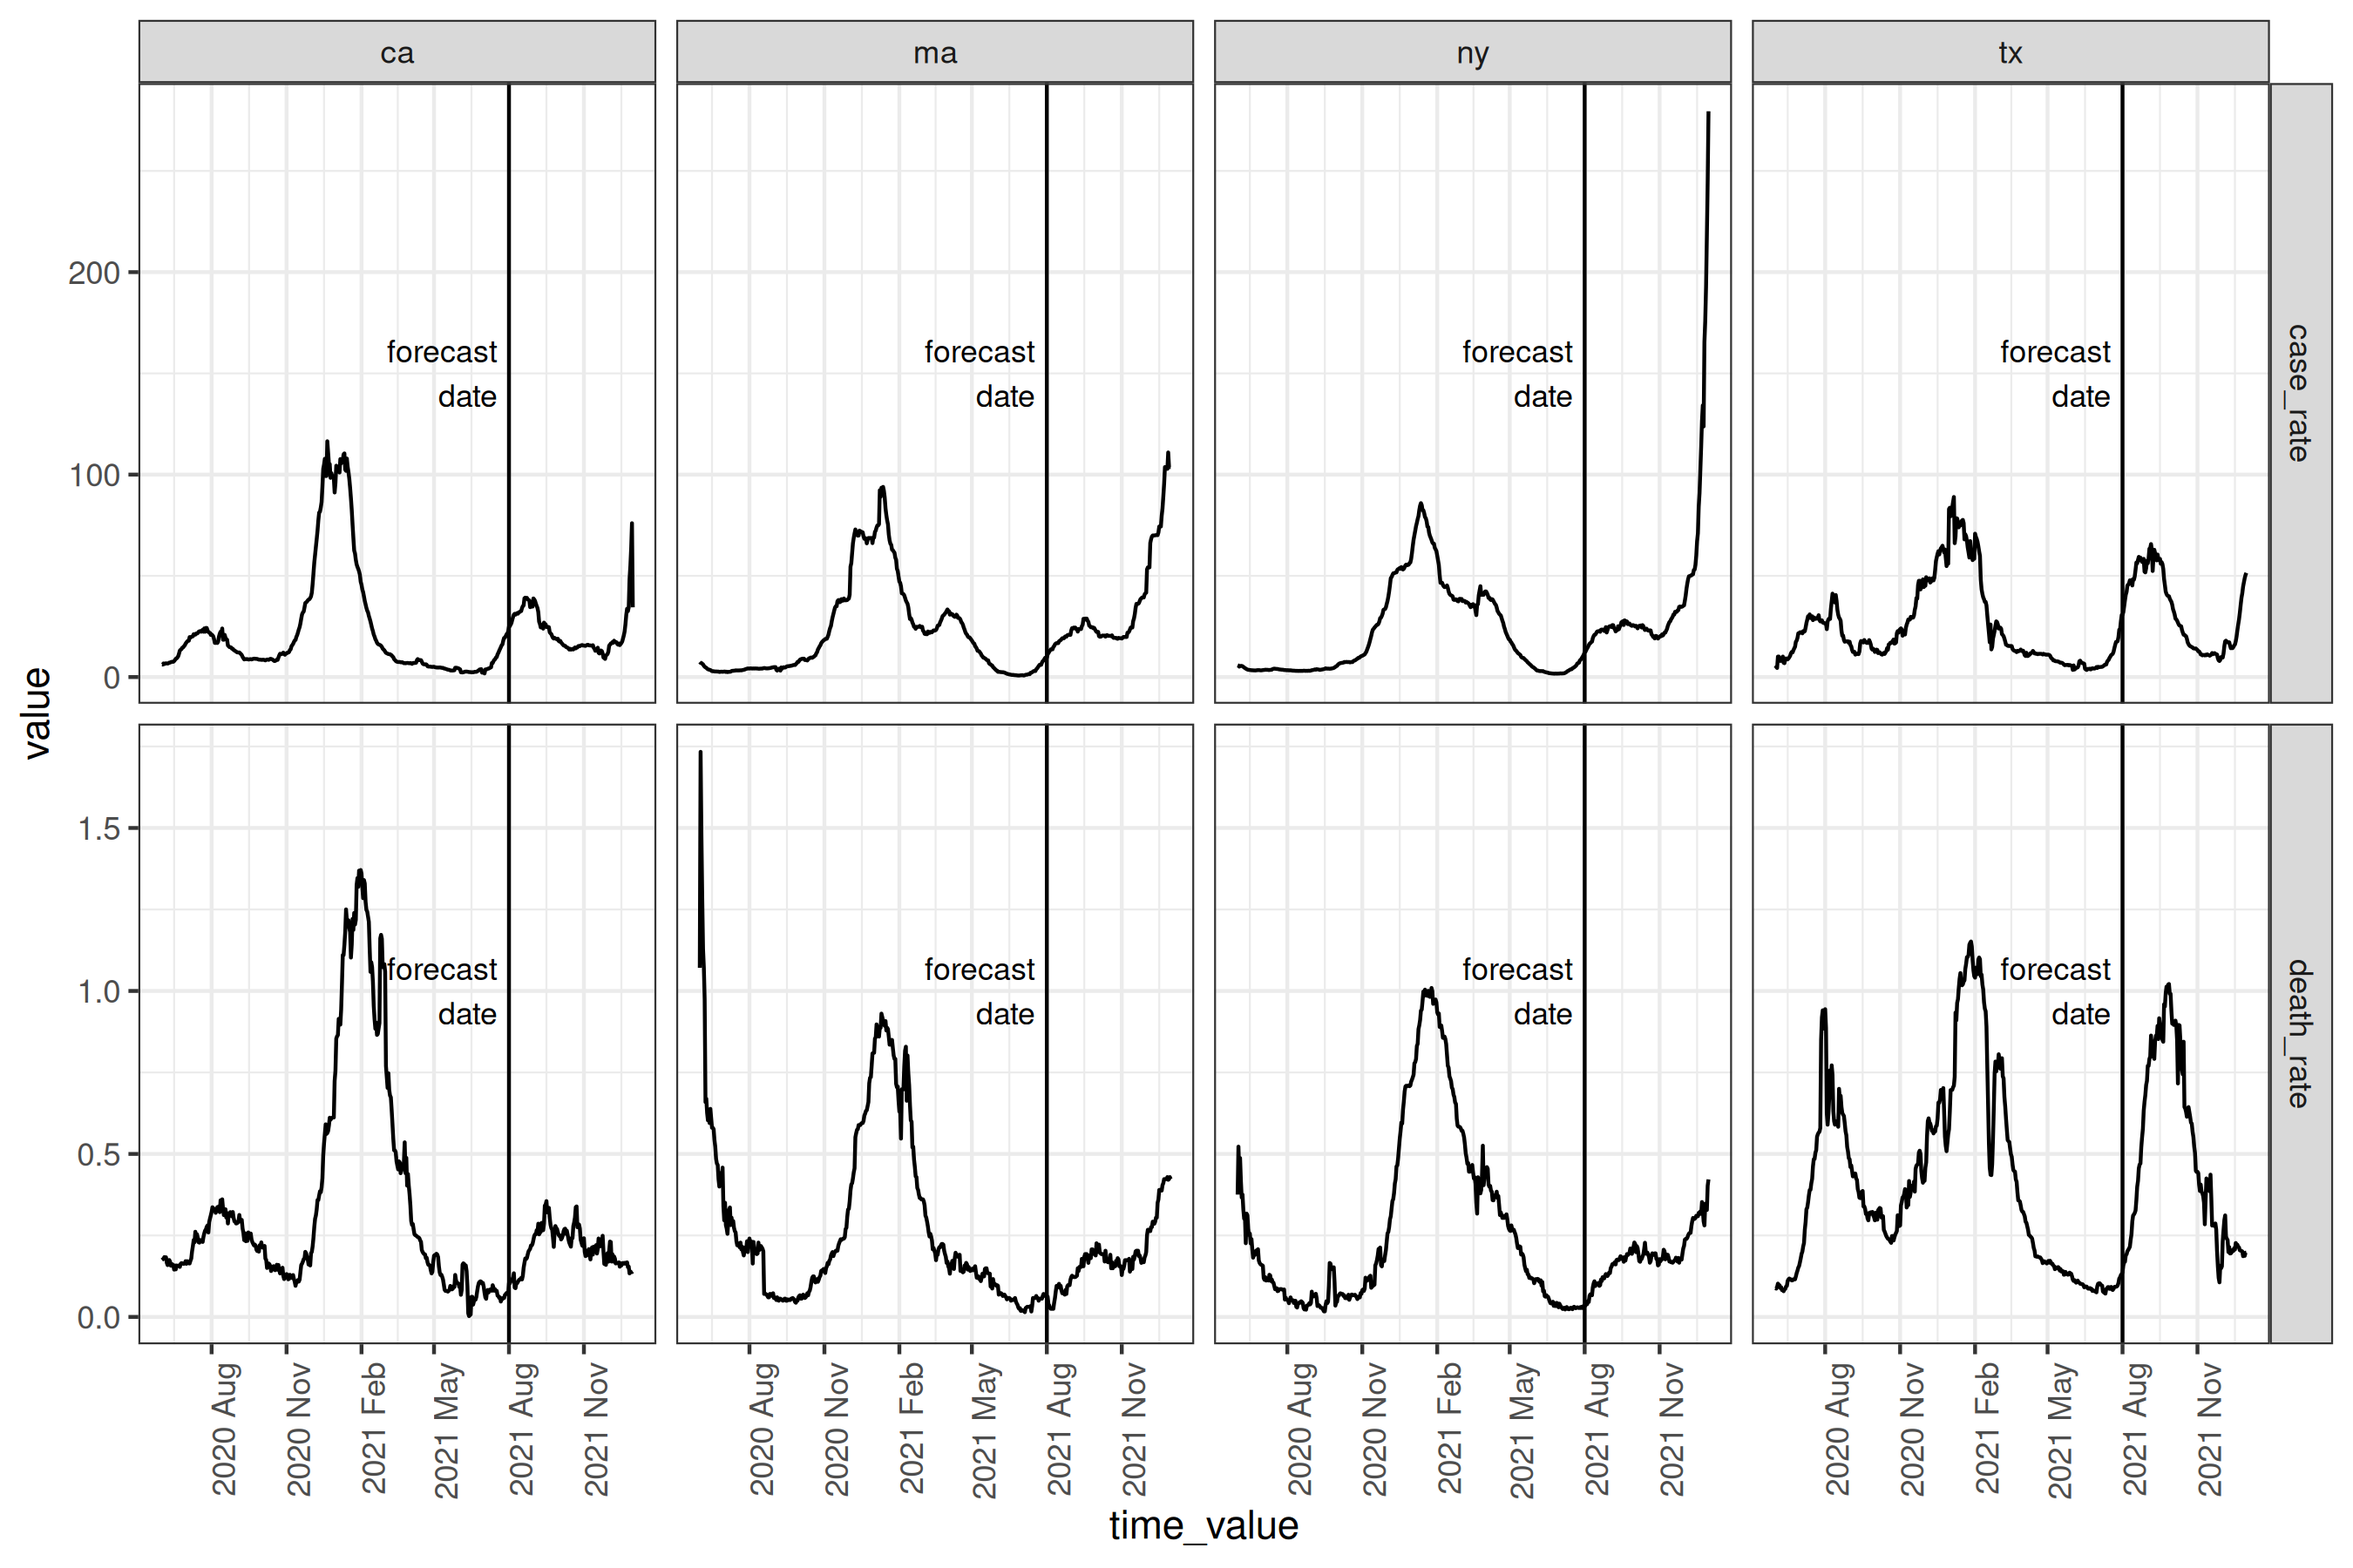
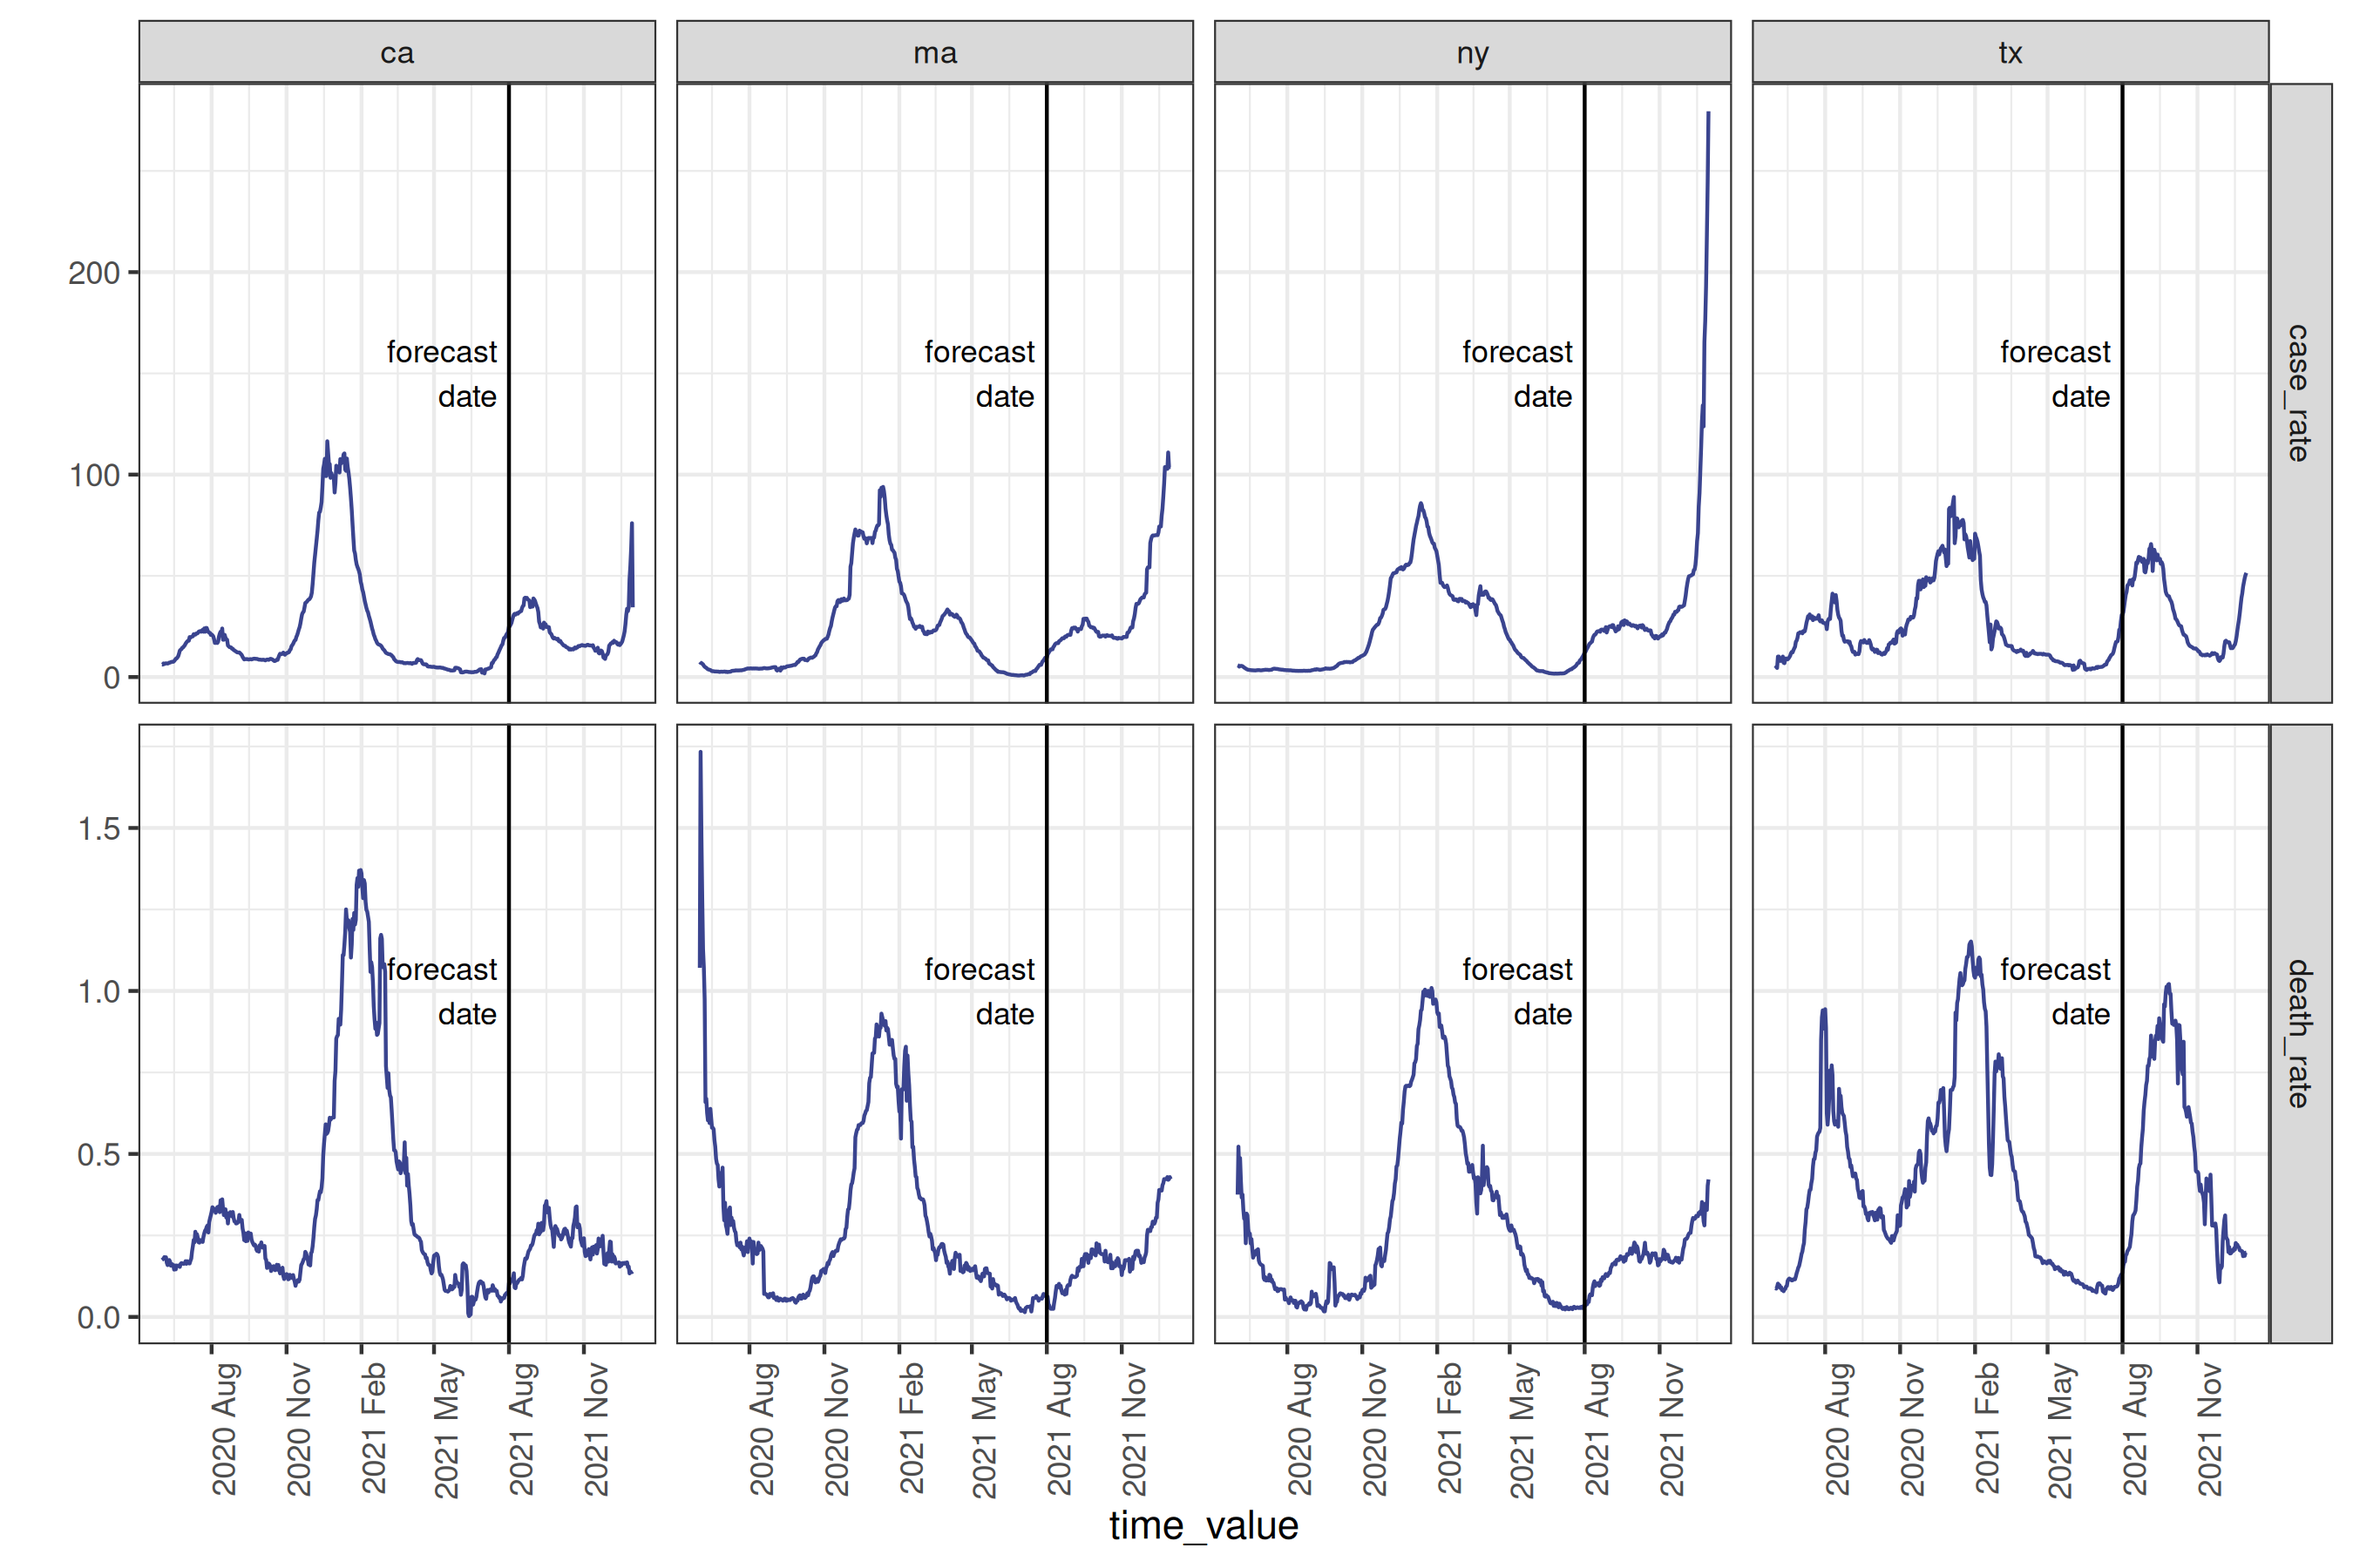
using new autoplot

diff --git a/README.md b/README.md
@@ -59,7 +59,7 @@ from JHU data.
 Creating the dataset using `{epidatr}` and `{epiprocess}`
 </summary>
 
-This dataset can be found in the package as \<TODO DOESN’T EXIST\>; we
+This dataset can be found in the package as `covid_case_death_rates`; we
 demonstrate some of the typically ubiquitous cleaning operations needed
 to be able to forecast. First we pull both jhu-csse cases and deaths
 from [`{epidatr}`](https://cmu-delphi.github.io/epidatr/) package:
@@ -84,26 +84,35 @@ deaths <- pub_covidcast(
   geo_values = "*"
 ) |>
   select(geo_value, time_value, death_rate = value)
+```
+
+Since visualizing the results on every geography is somewhat
+overwhelming, we’ll only train on a subset of 5.
+
+``` r
+used_locations <- c("ca", "ma", "ny", "tx")
 cases_deaths <-
   full_join(cases, deaths, by = c("time_value", "geo_value")) |>
+  filter(geo_value %in% used_locations) |>
   as_epi_df(as_of = as.Date("2022-01-01"))
-plot_locations <- c("ca", "ma", "ny", "tx")
 # plotting the data as it was downloaded
 cases_deaths |>
-  filter(geo_value %in% plot_locations) |>
-  pivot_longer(cols = c("case_rate", "death_rate"), names_to = "source") |>
-  ggplot(aes(x = time_value, y = value)) +
-  geom_line() +
-  facet_grid(source ~ geo_value, scale = "free") +
+  autoplot(
+    case_rate,
+    death_rate,
+    .color_by = "none"
+  ) +
+  facet_grid(.response_name ~ geo_value, scale = "free") +
   scale_x_date(date_breaks = "3 months", date_labels = "%Y %b") +
   theme(axis.text.x = element_text(angle = 90, hjust = 1))
 ```
 
-<img src="man/figures/README-case_death-1.png" width="90%" style="display: block; margin: auto;" />
+<img src="man/figures/README-date-1.png" width="90%" style="display: block; margin: auto;" />
 
 As with basically any dataset, there is some cleaning that we will need
 to do to make it actually usable; we’ll use some utilities from
 [`{epiprocess}`](https://cmu-delphi.github.io/epiprocess/) for this.
+
 First, to eliminate some of the noise coming from daily reporting, we do
 7 day averaging over a trailing window[^1]:
 
@@ -129,10 +138,12 @@ cases_deaths <-
   group_by(geo_value) |>
   mutate(
     outlr_death_rate = detect_outlr_rm(
-      time_value, death_rate, detect_negatives = TRUE
+      time_value, death_rate,
+      detect_negatives = TRUE
     ),
     outlr_case_rate = detect_outlr_rm(
-      time_value, case_rate, detect_negatives = TRUE
+      time_value, case_rate,
+      detect_negatives = TRUE
     )
   ) |>
   unnest(cols = starts_with("outlr"), names_sep = "_") |>
@@ -142,22 +153,6 @@ cases_deaths <-
     case_rate = outlr_case_rate_replacement
   ) |>
   select(geo_value, time_value, case_rate, death_rate)
-cases_deaths
-#> An `epi_df` object, 32,424 x 4 with metadata:
-#> * geo_type  = state
-#> * time_type = day
-#> * as_of     = 2022-01-01
-#> 
-#> # A tibble: 32,424 × 4
-#>   geo_value time_value case_rate death_rate
-#> * <chr>     <date>         <dbl>      <dbl>
-#> 1 ak        2020-06-01      2.31          0
-#> 2 ak        2020-06-02      1.94          0
-#> 3 ak        2020-06-03      2.63          0
-#> 4 ak        2020-06-04      2.59          0
-#> 5 ak        2020-06-05      2.43          0
-#> 6 ak        2020-06-06      2.35          0
-#> # ℹ 32,418 more rows
 ```
 
 </details>
@@ -173,18 +168,19 @@ Plot
 ``` r
 forecast_date_label <-
   tibble(
-    geo_value = rep(plot_locations, 2),
-    source = c(rep("case_rate", 4), rep("death_rate", 4)),
-    dates = rep(forecast_date - 7 * 2, 2 * length(plot_locations)),
+    geo_value = rep(used_locations, 2),
+    .response_name = c(rep("case_rate", 4), rep("death_rate", 4)),
+    dates = rep(forecast_date - 7 * 2, 2 * length(used_locations)),
     heights = c(rep(150, 4), rep(1.0, 4))
   )
 processed_data_plot <-
   cases_deaths |>
-  filter(geo_value %in% plot_locations) |>
-  pivot_longer(cols = c("case_rate", "death_rate"), names_to = "source") |>
-  ggplot(aes(x = time_value, y = value)) +
-  geom_line() +
-  facet_grid(source ~ geo_value, scale = "free") +
+  autoplot(
+    case_rate,
+    death_rate,
+    .color_by = "none"
+  ) +
+  facet_grid(.response_name ~ geo_value, scale = "free") +
   geom_vline(aes(xintercept = forecast_date)) +
   geom_text(
     data = forecast_date_label,
@@ -216,7 +212,7 @@ four_week_ahead <- arx_forecaster(
 four_week_ahead
 #> ══ A basic forecaster of type ARX Forecaster ════════════════════════════════
 #> 
-#> This forecaster was fit on 2025-01-24 15:31:46.
+#> This forecaster was fit on 2025-01-27 16:36:10.
 #> 
 #> Training data was an <epi_df> with:
 #> • Geography: state,
@@ -226,8 +222,8 @@ four_week_ahead
 #> 
 #> ── Predictions ──────────────────────────────────────────────────────────────
 #> 
-#> A total of 56 predictions are available for
-#> • 56 unique geographic regions,
+#> A total of 4 predictions are available for
+#> • 4 unique geographic regions,
 #> • At forecast date: 2021-08-01,
 #> • For target date: 2021-08-29,
 #> 
@@ -246,21 +242,18 @@ Plotting the prediction intervals on our subset above[^3]:
 Plot
 </summary>
 
-This is the same kind of plot as `processed_data_plot` above, but with
-the past data narrowed somewhat
-
 ``` r
-narrow_data_plot <-
-  cases_deaths |>
-  filter(time_value > "2021-04-01") |>
-  filter(geo_value %in% plot_locations) |>
-  pivot_longer(cols = c("case_rate", "death_rate"), names_to = "source") |>
-  ggplot(aes(x = time_value, y = value)) +
-  geom_line() +
-  facet_grid(source ~ geo_value, scale = "free") +
+epiworkflow <- four_week_ahead$epi_workflow
+restricted_predictions <-
+  four_week_ahead$predictions |>
+  rename(time_value = target_date, value = .pred) |>
+  mutate(.response_name = "death_rate")
+forecast_plot <-
+  four_week_ahead |>
+  autoplot(plot_data = cases_deaths) +
   geom_vline(aes(xintercept = forecast_date)) +
   geom_text(
-    data = forecast_date_label,
+    data = forecast_date_label %>% filter(.response_name == "death_rate"),
     aes(x = dates, label = "forecast\ndate", y = heights),
     size = 3, hjust = "right"
   ) +
@@ -268,36 +261,15 @@ narrow_data_plot <-
   theme(axis.text.x = element_text(angle = 90, hjust = 1))
 ```
 
-Putting that together with a plot of the bands, and a plot of the median
-prediction.
-
-``` r
-epiworkflow <- four_week_ahead$epi_workflow
-restricted_predictions <-
-  four_week_ahead$predictions |>
-  filter(geo_value %in% plot_locations) |>
-  rename(time_value = target_date, value = .pred) |>
-  mutate(source = "death_rate")
-forecast_plot <-
-  narrow_data_plot |>
-  epipredict:::plot_bands(
-    restricted_predictions,
-    levels = 0.9
-  ) +
-  geom_point(
-    data = restricted_predictions,
-    aes(y = .data$value)
-  )
-```
-
 </details>
 
 <img src="man/figures/README-show-single-forecast-1.png" width="90%" style="display: block; margin: auto;" />
 
-The yellow dot gives the median prediction, while the red interval gives
-the 5-95% inter-quantile range. For this particular day and these
-locations, the forecasts are relatively accurate, with the true data
-being within the 25-75% interval. A couple of things to note:
+The black dot gives the median prediction, while the blue intervals give
+the 25-75%, the 10-90%, and 2.5-97.5% inter-quantile ranges. For this
+particular day and these locations, the forecasts are relatively
+accurate, with the true data being at least within the 10-90% interval.
+A couple of things to note:
 
 1.  Our methods are primarily direct forecasters; this means we don’t
     need to predict 1, 2,…, 27 days ahead to then predict 28 days ahead
@@ -312,10 +284,10 @@ being within the 25-75% interval. A couple of things to note:
 If you encounter a bug or have a feature request, feel free to file an
 [issue on our github
 page](https://github.com/cmu-delphi/epipredict/issues). For other
-questions, feel free to contact [Daniel](daniel@stat.ubc.ca),
-[David](davidweb@andrew.cmu.edu), [Dmitry](dshemetov@cmu.edu), or
-[Logan](lcbrooks@andrew.cmu.edu), either via email or on the Insightnet
-slack.
+questions, feel free to reach out to the authors, either via this
+[contact
+form](https://docs.google.com/forms/d/e/1FAIpQLScqgT1fKZr5VWBfsaSp-DNaN03aV6EoZU4YljIzHJ1Wl_zmtg/viewform),
+email, or the Insightnet slack.
 
 [^1]: This makes it so that any given day of the processed timeseries
     only depends on the previous week, which means that we avoid leaking
